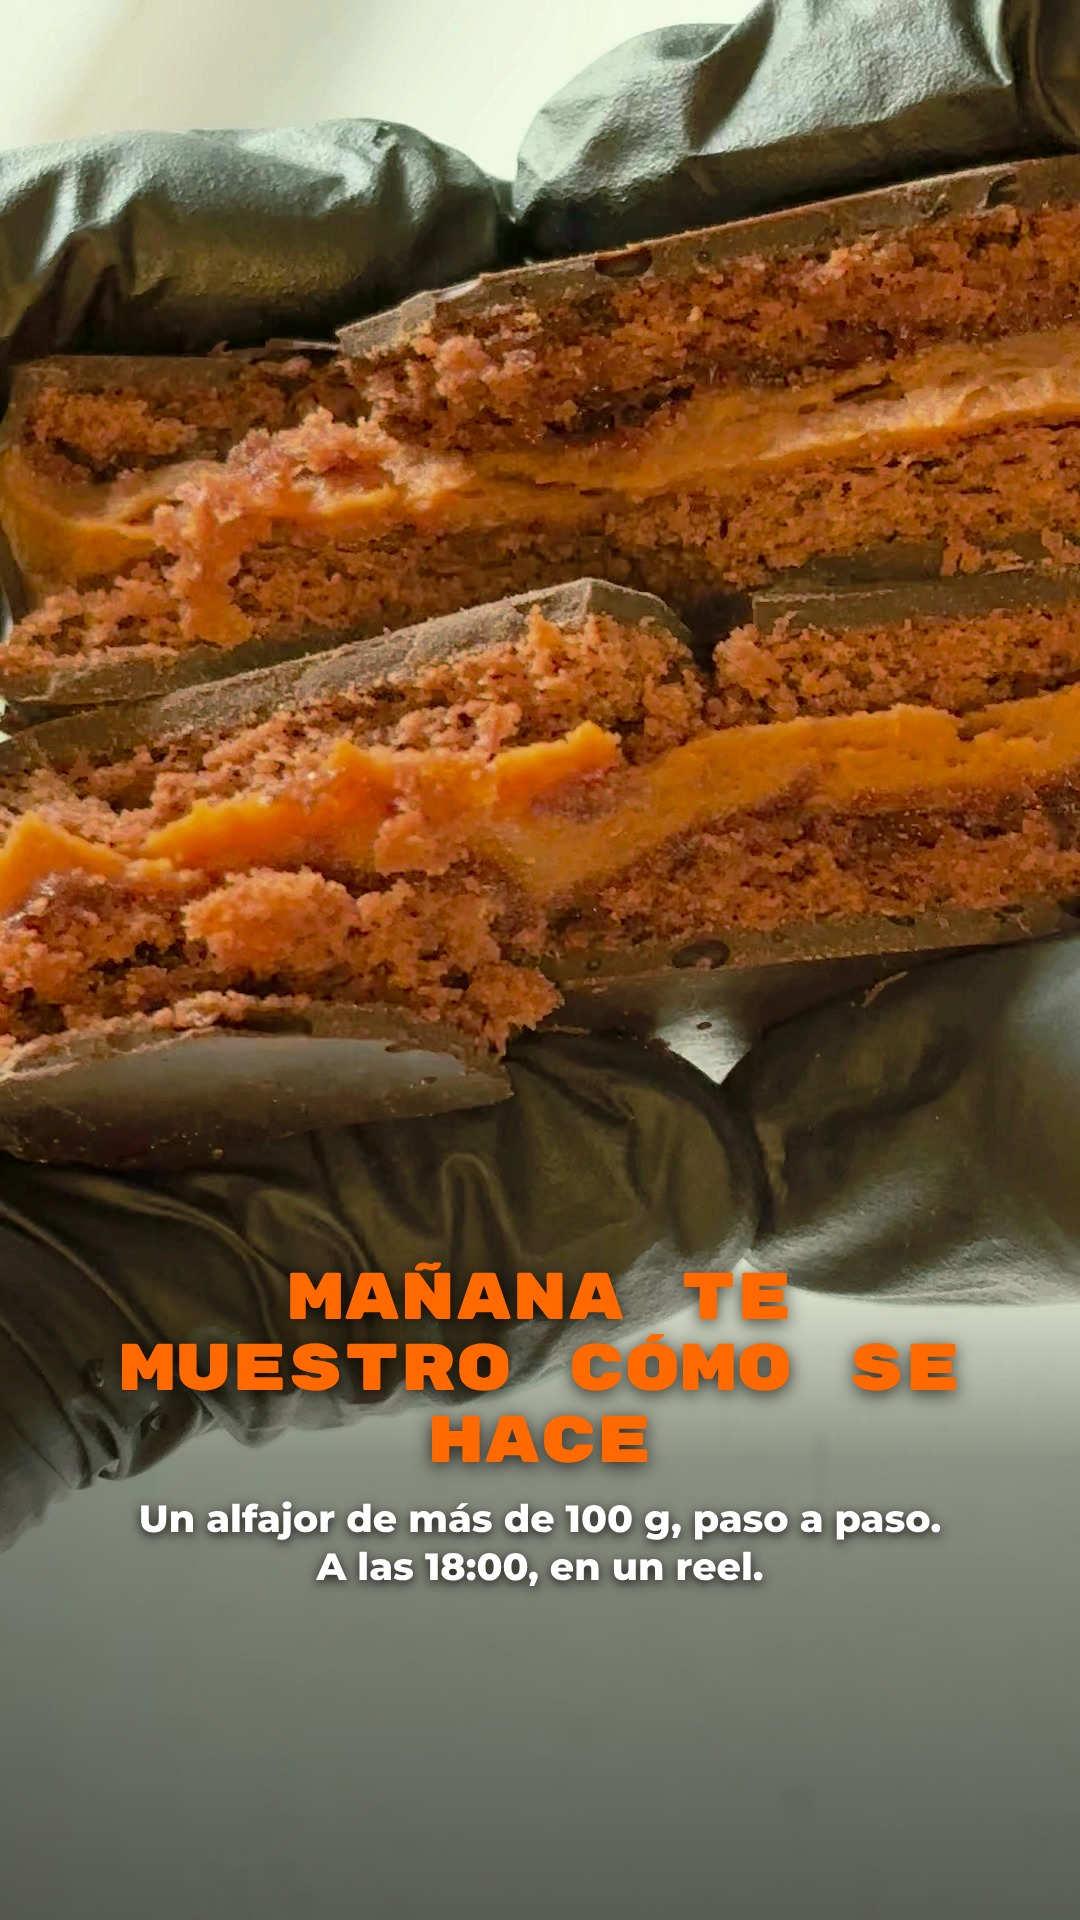
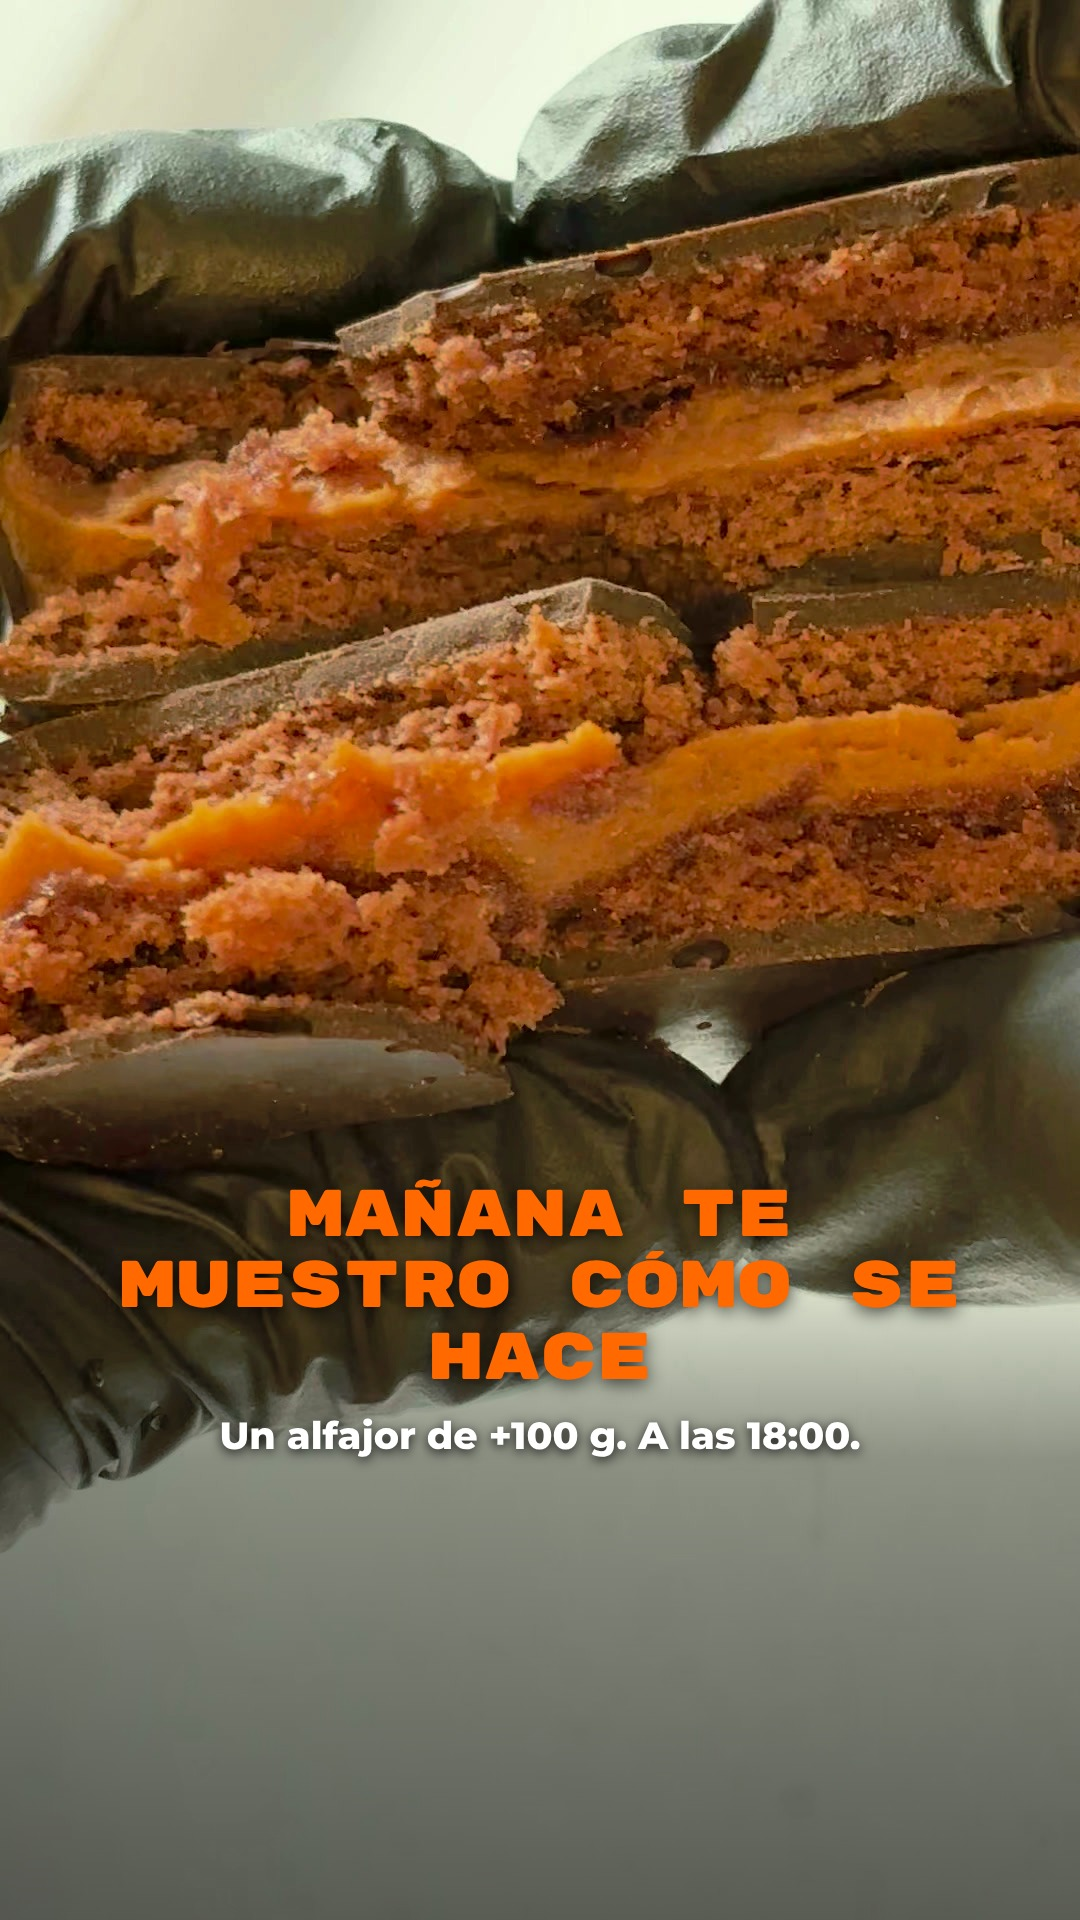
Historia lun-9-2: texto más arriba para que entre la cuenta regresiva
Claude-Session: https://claude.ai/code/session_01D8NbkqXQkZ6fdmgbQ5yBcm

Changed region(s): [[0.0917, 0.5938, 0.8861, 0.8438]]

diff --git a/monte-riko/historias-noviembre/nube/placas.js b/monte-riko/historias-noviembre/nube/placas.js
@@ -1,14 +1,14 @@
 const { chromium } = require('playwright');
 const S = process.argv[2];
 const P = [
-  { n: 'lun-9-1', img: 'limpio-0.3.png', t: 'HAY ALGUIEN NUEVO EN LA COCINA', s: 'Mañana lo conocés.', pos: 'abajo' },
-  { n: 'lun-9-2', img: 'mitades-gustoso.png', t: 'MAÑANA TE MUESTRO CÓMO SE HACE', s: 'Un alfajor de más de 100 g, paso a paso.\nA las 18:00, en un reel.', pos: 'abajo' },
+  // { n: 'lun-9-1', img: 'limpio-0.3.png', t: 'HAY ALGUIEN NUEVO EN LA COCINA', s: 'Mañana lo conocés.', pos: 'abajo' },
+  { n: 'lun-9-2', img: 'mitades-gustoso.png', t: 'MAÑANA TE MUESTRO CÓMO SE HACE', s: 'Un alfajor de +100 g. A las 18:00.', pos: 'abajo', top: 1180 },
 ];
 (async () => {
   const b = await chromium.launch();
   const p = await b.newPage({ viewport: { width: 1080, height: 1920 } });
   for (const x of P) {
-    const q = new URLSearchParams({ img: x.img, t: x.t, s: x.s || '', pos: x.pos || 'arriba' });
+    const q = new URLSearchParams({ img: x.img, t: x.t, s: x.s || '', pos: x.pos || 'arriba', top: x.top || '' });
     await p.goto('http://localhost:8766/placa.html?' + q);
     await p.evaluate(() => document.fonts.ready); await p.waitForTimeout(800);
     await p.screenshot({ path: `${S}/${x.n}.png` });

diff --git a/monte-riko/historias-noviembre/nube/placa.html b/monte-riko/historias-noviembre/nube/placa.html
@@ -16,6 +16,6 @@ document.getElementById('t').textContent=t; document.getElementById('s').textCon
 const largo=Math.max(...t.split(' ').map(w=>w.length));
 document.getElementById('t').style.fontSize=Math.min(t.length>22?66:80,900/(largo*0.86))+'px';
 document.getElementById('g').style.background=abajo?'linear-gradient(0deg, rgba(0,0,0,.62) 0%, rgba(0,0,0,.42) 24%, rgba(0,0,0,0) 36%)':'linear-gradient(180deg, rgba(0,0,0,.62) 0%, rgba(0,0,0,.42) 17%, rgba(0,0,0,0) 29%)';
-document.getElementById('tx').style[abajo?'bottom':'top']=(abajo?330:200)+'px';
+if(q.get('top')) document.getElementById('tx').style.top=q.get('top')+'px'; else document.getElementById('tx').style[abajo?'bottom':'top']=(abajo?330:200)+'px';
 if(!s) document.getElementById('s').remove();
 </script></body></html>

diff --git a/monte-riko/historias-noviembre/README.md b/monte-riko/historias-noviembre/README.md
@@ -57,7 +57,7 @@ Lo que se miró de otras marcas está en `../instagram-referentes.md`.
 
 ### Lun 9: Alguien nuevo en la cocina (rehechas el 9 de noviembre 2026: anuncian el reel 3D del martes)
 - `lun-9-1.jpg`: HAY ALGUIEN NUEVO EN LA COCINA. "Mañana lo conocés." El pastelero 3D con la masa, sin los textos del reel.
-- `lun-9-2.jpg`: MAÑANA TE MUESTRO CÓMO SE HACE. "Un alfajor de más de 100 g, paso a paso. A las 18:00, en un reel." Foto `alfajor-partido-mitades` con el filtro del dulce. **Sticker:** cuenta regresiva para mañana a las 18:00, abajo del texto.
+- `lun-9-2.jpg`: MAÑANA TE MUESTRO CÓMO SE HACE. "Un alfajor de +100 g. A las 18:00." Foto `alfajor-partido-mitades` con el filtro del dulce. El texto va más arriba para dejar lugar al contador (pedido de Tomás, 9 de noviembre 2026). **Sticker:** cuenta regresiva para mañana a las 18:00, en el hueco gris de abajo del texto.
 
 ### Mar 10: Reel 3D "Así se hace un alfajor"
 - `mar-10-1.jpg`: LA PARTE QUE NADIE VE
